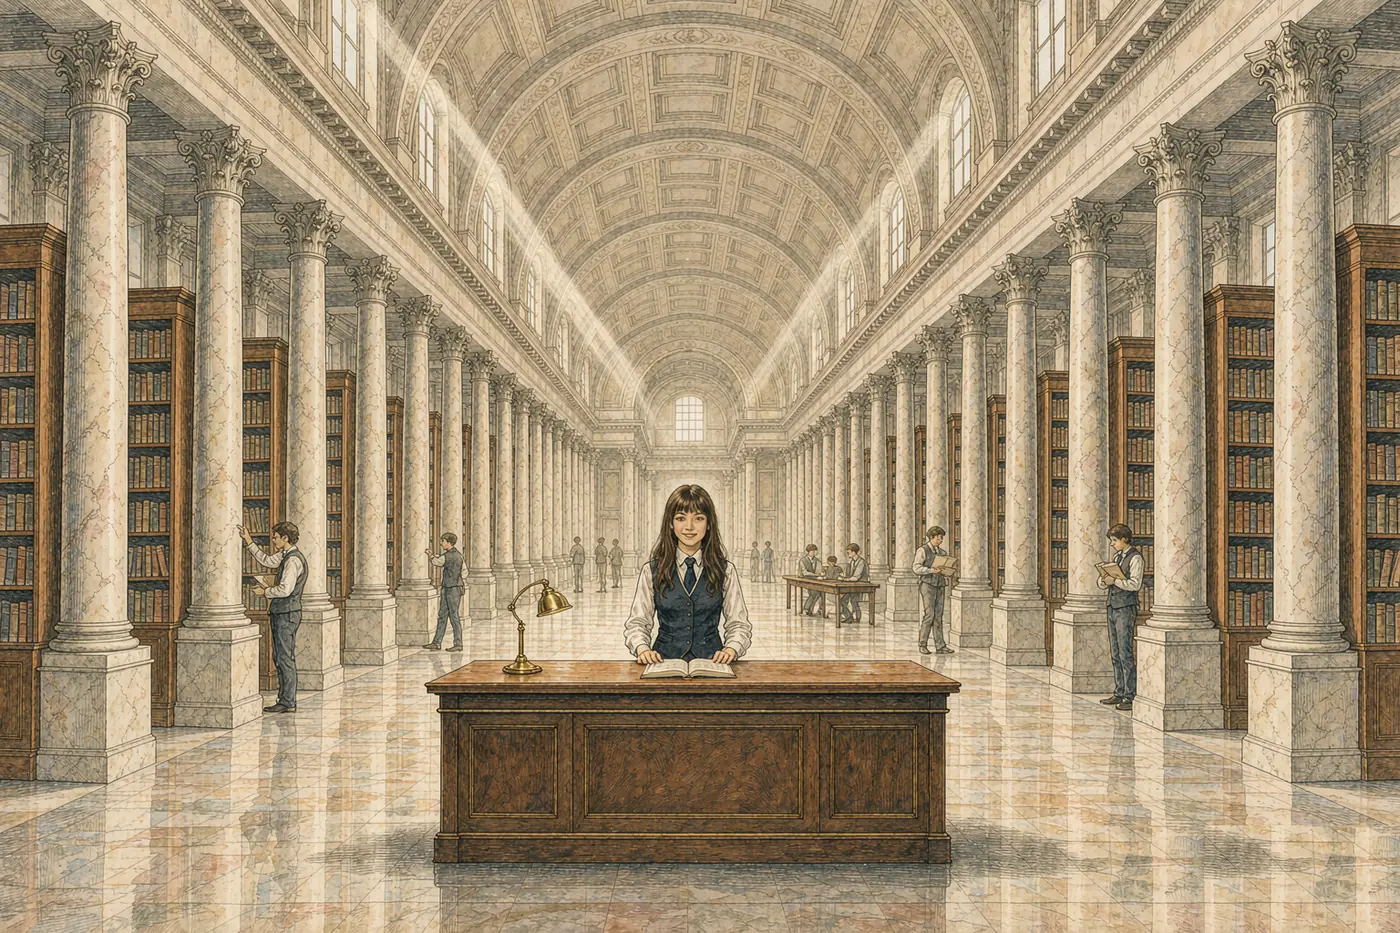
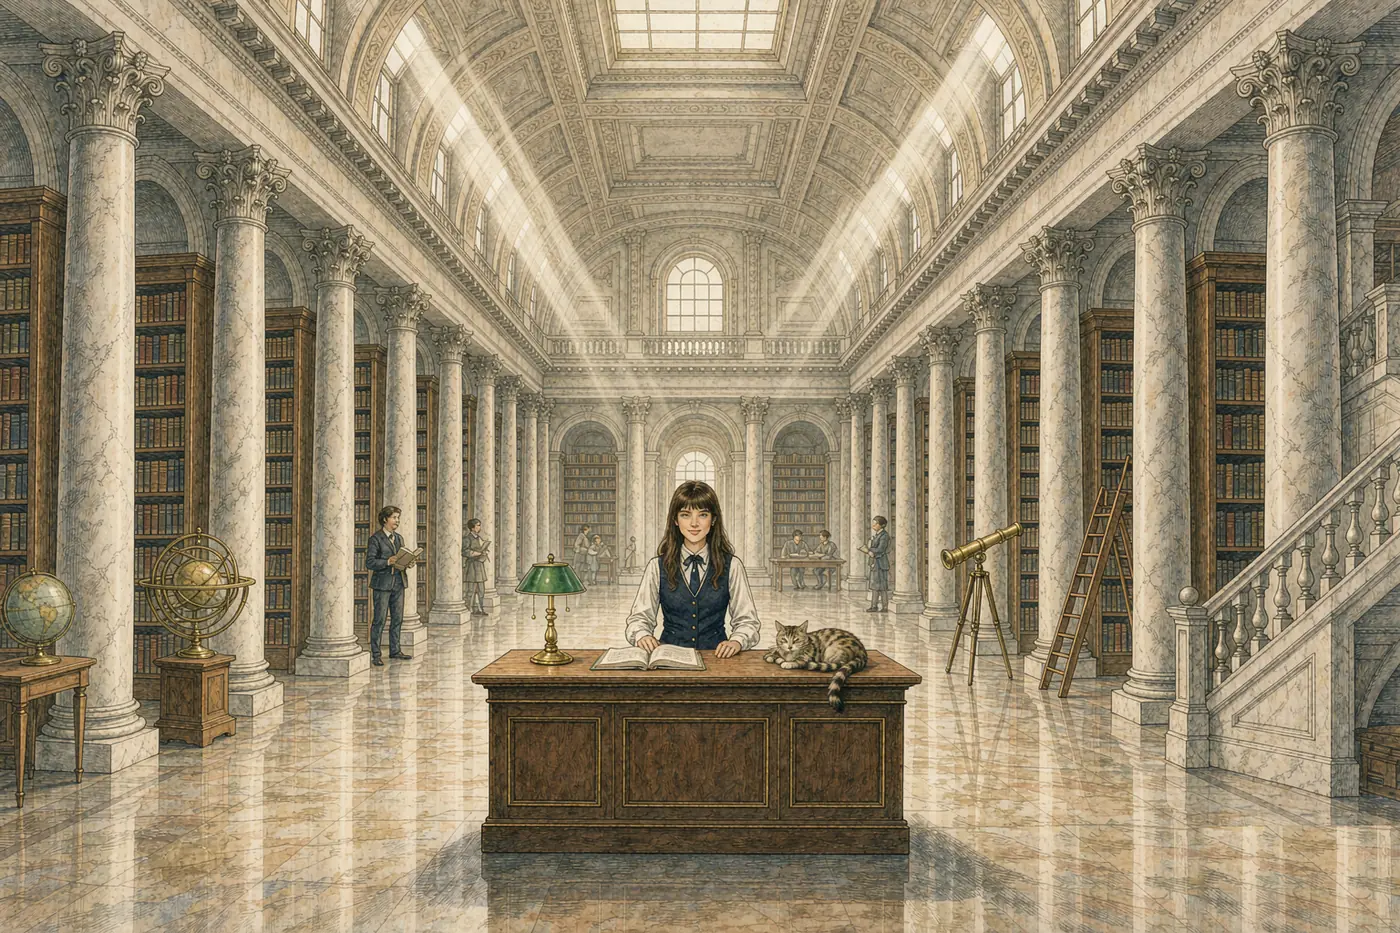
馆藏原件四版：内厅加料（楼梯/浑天仪/地球仪/望远镜/取书梯/绿罩台灯/猫）＋调阅台上移半透明不遮脸

diff --git a/index.html b/index.html
@@ -1860,7 +1860,7 @@ img{display:block}
   transition:transform 2.6s cubic-bezier(.3,.02,.26,1)}
 .arcwall.push .arc-scene{transform:scale(calc(var(--ar-zoom,1) * 1.06))}
 .arc-hall{position:absolute;inset:0;
-  background:url("assets/archive-hall.webp?v=20260922c") center/100% 100% no-repeat}
+  background:url("assets/archive-hall.webp?v=20260922d") center/100% 100% no-repeat}
 .arc-hallv{position:absolute;inset:0;
   background:radial-gradient(ellipse 60% 44% at 50% 44%,rgba(255,252,244,.26),rgba(255,250,240,0) 72%),
     linear-gradient(180deg,rgba(58,42,24,.20),rgba(58,42,24,0) 24%,
@@ -1905,14 +1905,20 @@ img{display:block}
   width:11px;height:11px;transform:rotate(45deg);background:var(--kh-paper2);
   border-right:1px solid var(--kh-line);border-bottom:1px solid var(--kh-line)}
 
-/* ── ④ 调阅台卡纸（一壳两态：报编号 / 调阅单）───────────────────────────── */
-.arc-card{position:absolute;left:50%;top:50%;z-index:6;width:min(520px,90vw);
+/* ── ④ 调阅台卡纸（一壳两态：报编号 / 调阅单）─────────────────────────────
+   ⚠⚠ 卡纸**必须挂在她的头顶之上**（`--ar-head`），**不能屏幕居中** ——
+      三版她画在画面 55% 处，居中卡纸的下沿正好切在她脸上（2026-09-22 用户截图指出）。
+      `min(…,62vh)` 是兜底：极矮的窗口里不让卡片顶出画面上沿。
+   ⭐ 半透明纸 ＋ 轻磨砂（用户："透明度高一点"）—— 但仍要压得住背后的大理石纹。 */
+.arc-card{position:absolute;left:50%;bottom:min(calc(var(--ar-head) + 4vh),62vh);
+  z-index:6;width:min(520px,90vw);
   padding:22px 24px 20px;text-align:center;opacity:0;visibility:hidden;
-  transform:translate(-50%,-46%) scale(.985);
-  background:var(--kh-paper2);border:1px solid var(--kh-line);border-radius:3px;
-  box-shadow:0 24px 64px rgba(60,44,24,.28);
+  transform:translate(-50%,8px) scale(.985);
+  background:rgba(255,255,252,.70);border:1px solid var(--kh-line);border-radius:3px;
+  backdrop-filter:blur(7px) saturate(1.02);-webkit-backdrop-filter:blur(7px) saturate(1.02);
+  box-shadow:0 22px 60px rgba(60,44,24,.24);
   transition:opacity .34s ease,transform .44s cubic-bezier(.2,.8,.3,1),visibility .34s}
-.arc-card.on{opacity:1;visibility:visible;transform:translate(-50%,-50%) scale(1)}
+.arc-card.on{opacity:1;visibility:visible;transform:translate(-50%,0) scale(1)}
 .arc-card::before,.arc-card::after{content:"";position:absolute;width:11px;height:11px;opacity:.55;
   border-color:var(--kh-corner)}
 .arc-card::before{left:7px;top:7px;border-left:1px solid;border-top:1px solid}
@@ -1922,7 +1928,7 @@ img{display:block}
 .arc-in{display:block;width:100%;margin:16px 0 0;padding:12px 14px;text-align:center;
   font-family:var(--mono,ui-monospace,monospace);font-size:22px;font-weight:600;
   letter-spacing:.34em;text-indent:.34em;color:var(--kh-ink2);
-  background:rgba(255,255,255,.70);border:1px solid var(--kh-line3);border-radius:2px;outline:none;
+  background:rgba(255,255,255,.78);border:1px solid var(--kh-line3);border-radius:2px;outline:none;
   transition:border-color .28s,box-shadow .28s}
 .arc-in:focus{border-color:var(--kh-acc);box-shadow:0 0 0 3px rgba(194,51,15,.10)}
 .arc-in::placeholder{color:var(--kh-dim3);font-weight:400;letter-spacing:.3em}
@@ -1955,6 +1961,16 @@ img{display:block}
   .arc-say{width:min(520px,92vw)}
   .arc-say-b{font-size:14px;padding:11px 17px 12px}
   .arc-card{width:min(460px,92vw)}
+}
+/* ⚠ 矮窗口（例如 1080×596）里"她头顶之上"只有 250px 左右 —— 卡纸必须**压扁**，
+   否则它的上沿会顶到顶栏、甚至把标题切掉（2026-09-22 实测：268px 的卡纸顶到 y=12px）。 */
+@media (max-height:760px){
+  .arc-card{padding:15px 18px 13px}
+  .arc-card-h{margin-top:7px;font-size:15.5px}
+  .arc-in{margin-top:11px;padding:9px 12px;font-size:19px}
+  .arc-tip{margin-top:8px;font-size:11px;line-height:1.72}
+  .arc-err{margin-top:7px;font-size:12px}
+  .arc-opts{margin-top:12px}
 }
 @media (max-width:560px){
   .arc-say-b{font-size:13px;letter-spacing:.03em;line-height:1.7}
@@ -4558,6 +4574,6 @@ footer .ft-legal b{color:var(--muted);font-weight:500}
 <script src="study-plan.js?v=20260922c"></script>
 <script src="docs.js?v=20260921c"></script>
 <script src="app.js?v=20260920f"></script>
-<script src="knowledge.js?v=20260922p"></script>
+<script src="knowledge.js?v=20260922q"></script>
 </body>
 </html>

diff --git a/knowledge.js b/knowledge.js
@@ -1983,6 +1983,9 @@ function arcAskOpen() {
   if (arcState === "inside" || arcState === "slip") arcState = "ask";
   if (arcState !== "ask") return;
   cardRestore();
+  /* ⚠ 调阅台一开就把问候语收走 —— 两张纸片挂在同一条竖直线上会互相压
+     （2026-09-22 用户截图："对话框不要遮住接待员的脸"；卡纸的位置也一并挪到她头顶之上）。 */
+  arcOff(arcEl("arcSay"), "on");
   var tip = arcEl("arcTip");
   if (tip) {
     tip.innerHTML = "编号＝<b>A／B</b>（技术／人文）＋ <b>01–05</b>（部分）＋ <b>001</b>（序号）<br>" +
@@ -2268,7 +2271,7 @@ function warmGateImages() {
        门是进门第一眼（必须已经在缓存里），内厅在 760ms 后就要露出来；
        接待员（65 KB）要 2.4s 之后才淡入，留给她自己慢慢下。 */
     "assets/archive-door.webp?v=20260922a",
-    "assets/archive-hall.webp?v=20260922c"
+    "assets/archive-hall.webp?v=20260922d"
   ];
   list.forEach(function (u) {
     var im = new Image();
@@ -2350,6 +2353,7 @@ function warmGateImages() {
       if (arcState === "ask" || arcState === "slip") {
         arcCloseCard();
         arcState = "inside";
+        arcOn(arcEl("arcSay"), "on");      // 收卡纸 → 把问候语放回来（文字还在，不重打）
         arcHint("点一下画面 · 向接待员报出文档编号");
         return;
       }
